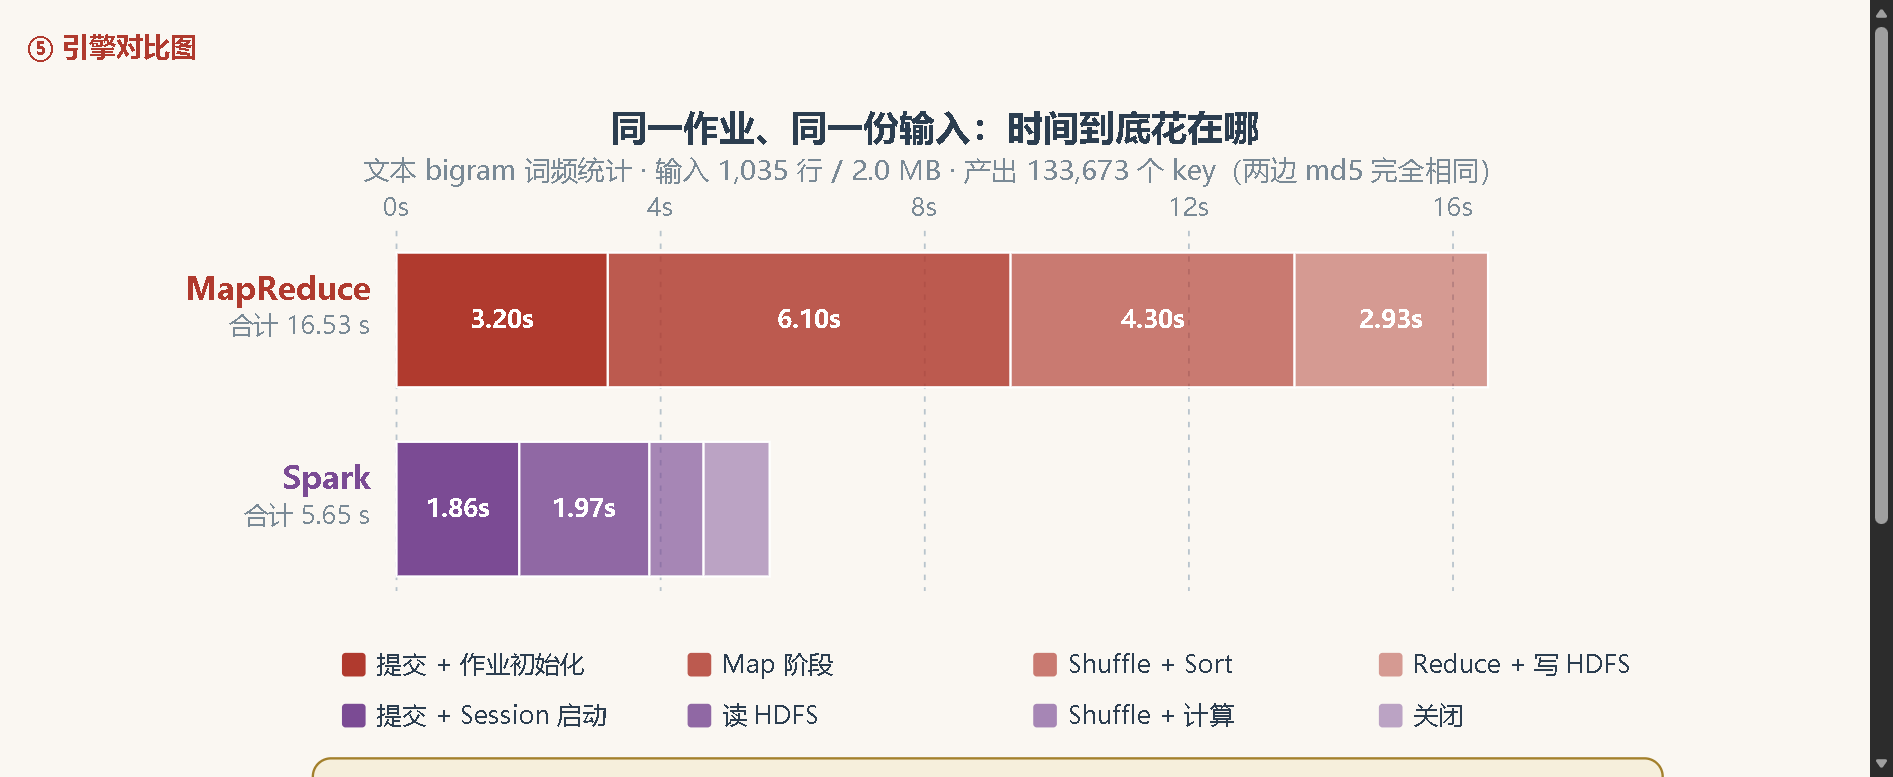
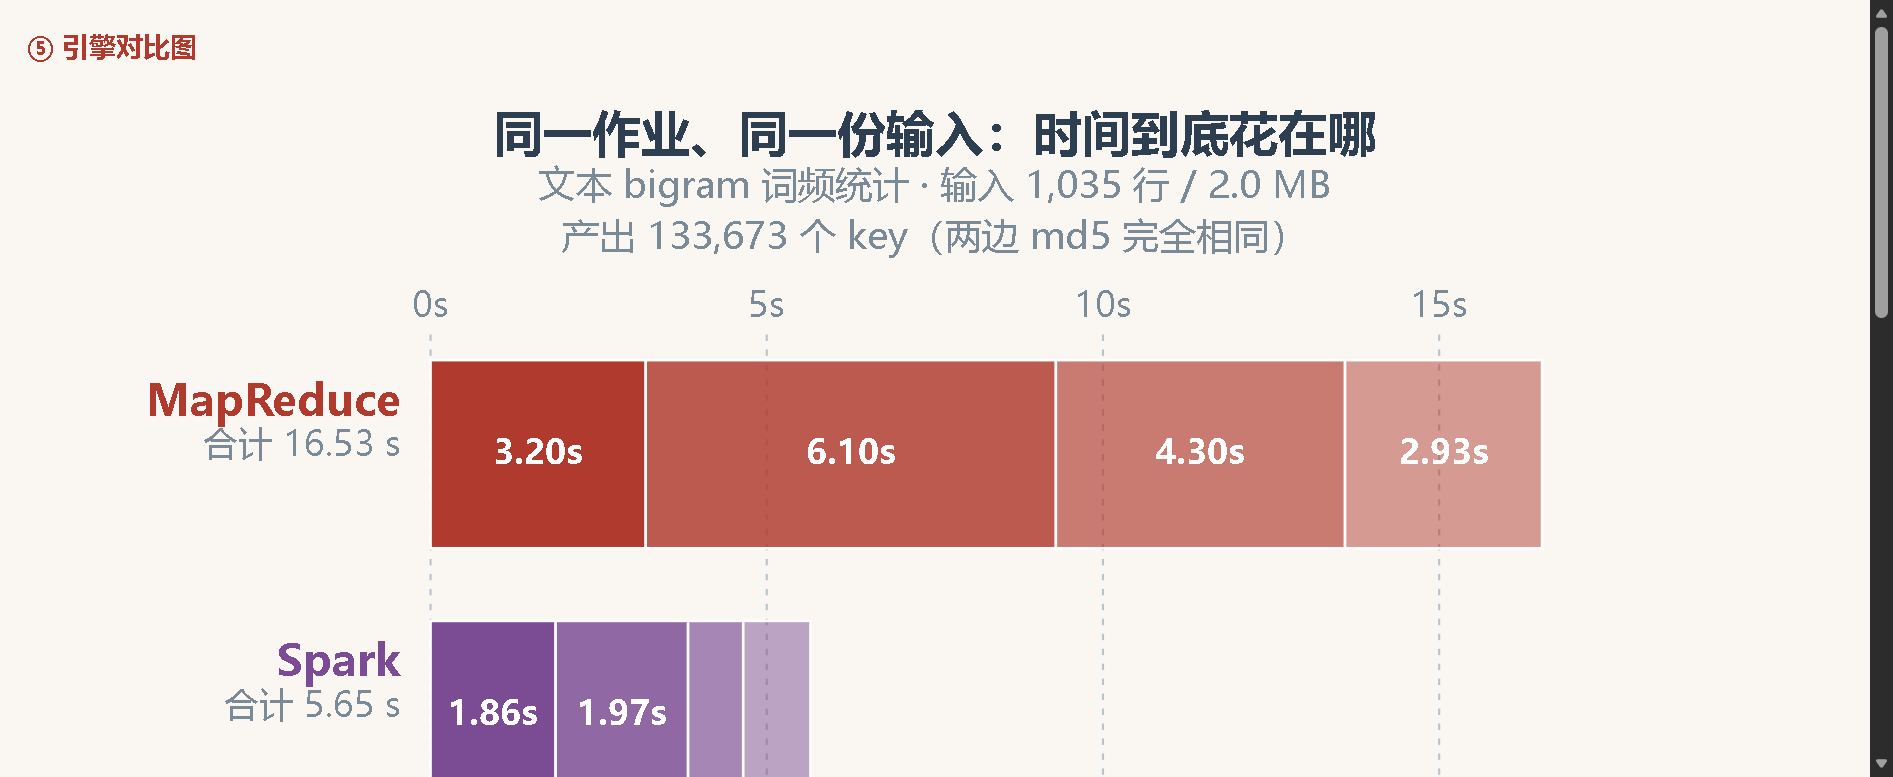
引擎对比图字号二次放大（累计约 1.9 倍）
上一轮 1.35 倍仍偏小，本轮再放大：

1) 画布再收窄 940 → 800
   缩放比 1.15 → 1.35（+17%）
2) 字号再上调
   条内数值 13.5 → 16，刻度/合计 14 → 16.5，图例 14 → 15
   引擎名 17 → 20，主标题 20 → 23，结论条目 14.5 → 16

累计：画布 1080→800（缩放 +29%）× 字号 11.5→15 起（+50%）= 约 1.9 倍

布局重排（放大后文字放不下，必须改结构而非硬塞）：
- 副标题一行拆两行（原一行 800 宽放不下）
- 图例 1 行 4 列 → 2 列 4 行（避免末列越右边界）
- 结论框四条各拆两行，框高 158→232，画布高 564→854
- 行高 74→88，行距 30→34，刻度 0/4/8/12/16 改 0/5/10/15

几何自检（脚本解析 SVG 逐字估算宽度）：
  画布 800x854
  结论框 x=122..754 y=530..762
  结论框内越界 0 处 ✅
  全图文字越界 0 处 ✅
  undefined/NaN 无 ✅

修复过程中发现两处越界并已解决：副标题超出画布左右、图例末列越右边界。

diff --git a/web/public/js/diagrams_simple.js b/web/public/js/diagrams_simple.js
@@ -346,14 +346,14 @@ export function renderQuestionDrivenDiagram() {
    用堆叠横条把「时间花在哪」摊开，才能解释为什么本项目仍选 MapReduce。
    ============================================================ */
 export function renderEngineBenchmark() {
-  const W = 940;
-  const ROW_H = 74, ROW_GAP = 30;
-  const LABEL_W = 158;          // 左侧引擎名
+  const W = 800;
+  const ROW_H = 88, ROW_GAP = 34;
+  const LABEL_W = 148;          // 左侧引擎名
   const BAR_X = LABEL_W + 16;
-  const BAR_W = 600;            // 条形最大宽度
-  const TOP = 96;
+  const BAR_W = 520;            // 条形最大宽度
+  const TOP = 132;
   const n = 2;
-  const H = TOP + n * ROW_H + (n - 1) * ROW_GAP + 290;
+  const H = TOP + n * ROW_H + (n - 1) * ROW_GAP + 512;
 
   // 实测数据（秒）
   const rows = [
@@ -391,15 +391,16 @@ export function renderEngineBenchmark() {
 <svg id="benchSvg" viewBox="0 0 ${W} ${H}" xmlns="http://www.w3.org/2000/svg"
      style="width:100%;height:auto;max-width:1140px;display:block;margin:0 auto">
   <!-- 标题 -->
-  ${txt(W / 2, 34, '同一作业、同一份输入：时间到底花在哪', 20, C.text, 700)}
-  ${txt(W / 2, 56, '文本 bigram 词频统计 · 输入 1,035 行 / 2.0 MB · 产出 133,673 个 key（两边 md5 完全相同）', 15, C.muted, 400)}
+  ${txt(W / 2, 34, '同一作业、同一份输入：时间到底花在哪', 23, C.text, 700)}
+  ${txt(W / 2, 56, '文本 bigram 词频统计 · 输入 1,035 行 / 2.0 MB', 17.5, C.muted, 400)}
+  ${txt(W / 2, 80, '产出 133,673 个 key（两边 md5 完全相同）', 17.5, C.muted, 400)}
 
   <!-- 坐标轴 -->
-  ${[0, 4, 8, 12, 16].map((v) => {
+  ${[0, 5, 10, 15].map((v) => {
     const x = BAR_X + v * scale;
     return `<line x1="${x}" y1="${TOP - 12}" x2="${x}" y2="${TOP + n * (ROW_H + ROW_GAP) - ROW_GAP + 8}"
             stroke="${C.line}" stroke-width="1" stroke-dasharray="3 4"/>
-      ${txt(x, TOP - 20, v + 's', 14, C.muted, 400)}`;
+      ${txt(x, TOP - 20, v + 's', 16.5, C.muted, 400)}`;
   }).join('')}
 
   <!-- 条形 -->
@@ -411,39 +412,45 @@ export function renderEngineBenchmark() {
       const alpha = 1 - k * 0.17;
       const rect = `<rect x="${x}" y="${y}" width="${Math.max(w, 1)}" height="${ROW_H}"
         fill="${r.color}" fill-opacity="${alpha}" stroke="#fff" stroke-width="1.2"/>`;
-      const inner = w > 46 ? txt(x + w / 2, y + ROW_H / 2 + 4.5, sg.v.toFixed(2) + 's', 13.5, '#fff', 700) : '';
+      const inner = w > 46 ? txt(x + w / 2, y + ROW_H / 2 + 4.5, sg.v.toFixed(2) + 's', 16, '#fff', 700) : '';
       x += w;
       return rect + inner;
     }).join('');
     return `
-    ${txt(BAR_X - 14, y + 26, r.name, 17, r.color, 700, 'end')}
-    ${txt(BAR_X - 14, y + 45, '合计 ' + r.total.toFixed(2) + ' s', 14, C.muted, 400, 'end')}
+    ${txt(BAR_X - 14, y + 26, r.name, 20, r.color, 700, 'end')}
+    ${txt(BAR_X - 14, y + 45, '合计 ' + r.total.toFixed(2) + ' s', 16.5, C.muted, 400, 'end')}
     ${bars}`;
   }).join('')}
 
   <!-- 图例：每个引擎一组，颜色与条形一致 -->
   ${rows.map((r, ri) => {
-    const ly = TOP + n * (ROW_H + ROW_GAP) + 12 + ri * 28;
+    const baseY = TOP + n * (ROW_H + ROW_GAP) + 10 + ri * 74;
     return r.segs.map((sg, k) => {
-      const lx = BAR_X - 30 + k * 190;
+      const col = k % 2, row = Math.floor(k / 2);
+      const lx = BAR_X - 10 + col * 300;
+      const ly = baseY + row * 32;
       return `
-      <rect x="${lx}" y="${ly}" width="13" height="13" rx="2"
+      <rect x="${lx}" y="${ly}" width="15" height="15" rx="2"
             fill="${r.color}" fill-opacity="${1 - k * 0.17}"/>
-      ${txt(lx + 19, ly + 11, sg.label, 14, C.text, 400, 'start')}`;
+      ${txt(lx + 22, ly + 12.5, sg.label, 15, C.text, 400, 'start')}`;
     }).join('');
   }).join('')}
 
   <!-- 关键结论 -->
   ${(() => {
-    const cy = TOP + n * (ROW_H + ROW_GAP) + 92;
+    const cy = TOP + n * (ROW_H + ROW_GAP) + 178;
     return `
-    <rect x="${LABEL_W - 30}" y="${cy - 22}" width="${W - LABEL_W - 40}" height="158" rx="10"
-          fill="${C.warnBg}" stroke="${C.warn}" stroke-width="1.3"/>
-    ${txt(LABEL_W - 8, cy + 4, '为什么本项目仍然选 MapReduce', 16.5, C.warn, 700, 'start')}
-    ${txt(LABEL_W - 8, cy + 34, '① 规模太小 —— 输入 2 MB，连一个 HDFS block（128 MB）都没填满，Spark 的启动开销吃掉优势', 14.5, C.text, 400, 'start')}
-    ${txt(LABEL_W - 8, cy + 62, '② 没有迭代 —— 四个作业都是一次性全表扫描，Spark 的内存缓存复用完全用不上', 14.5, C.text, 400, 'start')}
-    ${txt(LABEL_W - 8, cy + 90, '③ 教学更透明 —— MapReduce 日志直接给出 Map → Combine → Reduce 三个数字，shuffle 语义看得见', 14.5, C.text, 400, 'start')}
-    ${txt(LABEL_W - 8, cy + 120, '※ 结论：Spark 更适合「大数据量 + 迭代计算」，本项目的规模用不上它的核心优势', 15, C.warn, 600, 'start')}`;
+    <rect x="${LABEL_W - 26}" y="${cy - 24}" width="${W - LABEL_W - 20}" height="232" rx="10"
+          fill="${C.warnBg}" stroke="${C.warn}" stroke-width="1.4"/>
+    ${txt(LABEL_W - 4, cy + 4, '为什么本项目仍然选 MapReduce', 19, C.warn, 700, 'start')}
+    ${txt(LABEL_W - 4, cy + 32, '① 规模太小 —— 输入 2 MB，连一个 HDFS block（128 MB）', 16, C.text, 400, 'start')}
+    ${txt(LABEL_W + 22, cy + 54, '都没填满，Spark 的启动开销吃掉优势', 16, C.text, 400, 'start')}
+    ${txt(LABEL_W - 4, cy + 84, '② 没有迭代 —— 四个作业都是一次性全表扫描，', 16, C.text, 400, 'start')}
+    ${txt(LABEL_W + 22, cy + 106, 'Spark 的内存缓存复用完全用不上', 16, C.text, 400, 'start')}
+    ${txt(LABEL_W - 4, cy + 136, '③ 教学更透明 —— MapReduce 日志直接给出三个数字，', 16, C.text, 400, 'start')}
+    ${txt(LABEL_W + 22, cy + 158, 'Map → Combine → Reduce，shuffle 语义看得见', 16, C.text, 400, 'start')}
+    ${txt(LABEL_W - 4, cy + 190, '※ 结论：Spark 更适合「大数据量 + 迭代计算」，本项目规模用不上', 16.5, C.warn, 600, 'start')}
+`;
   })()}
 </svg>`;
 }
